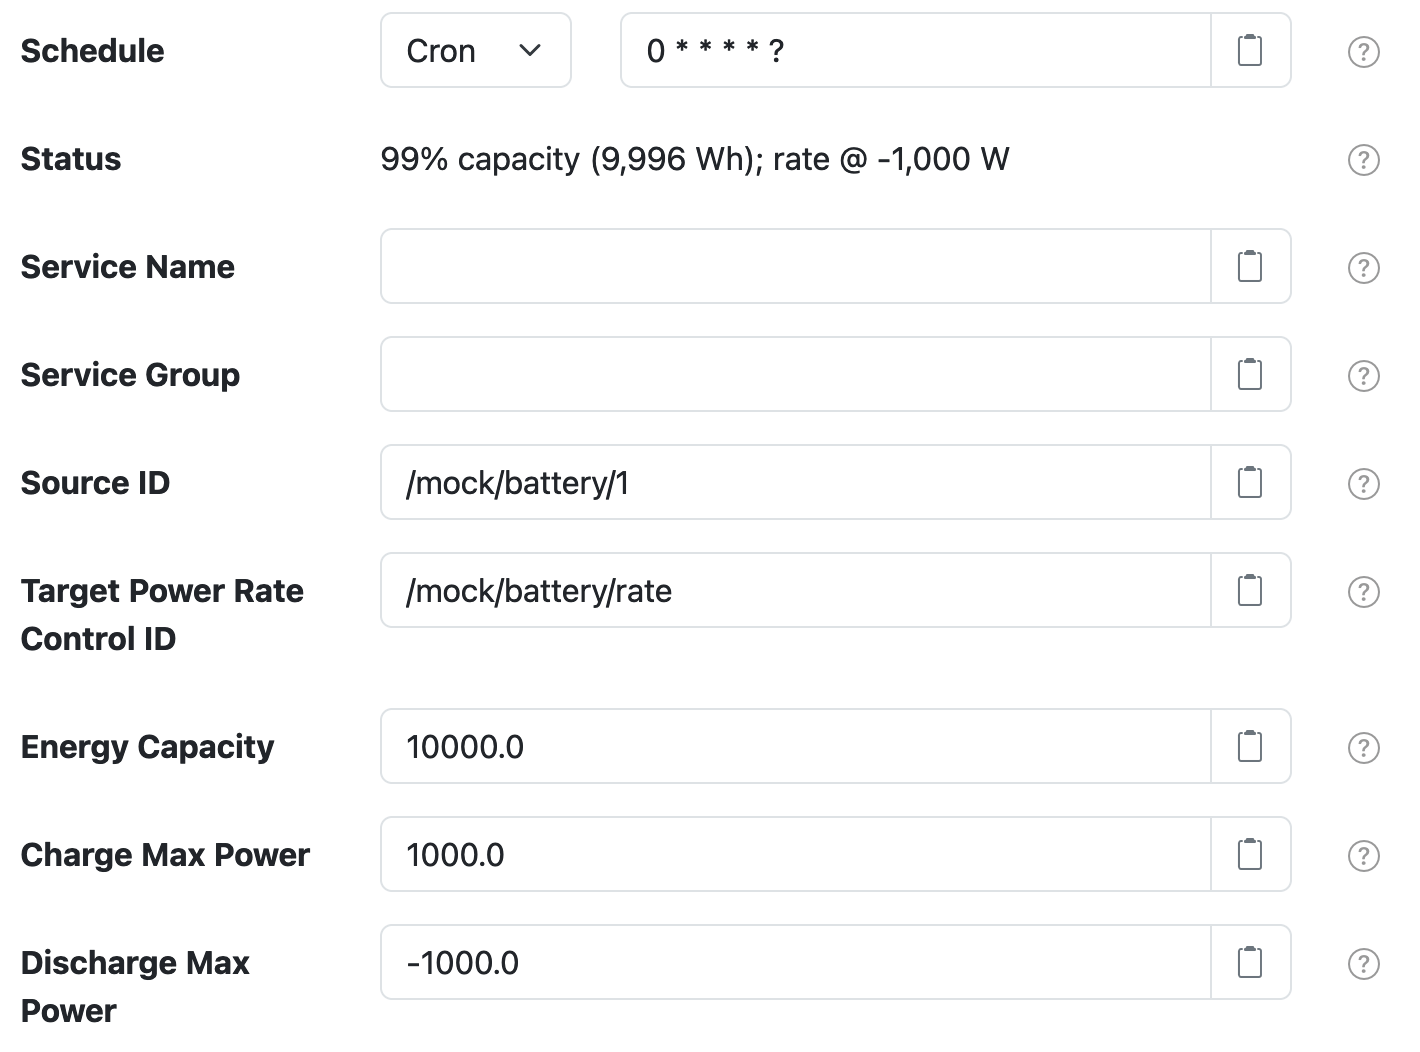
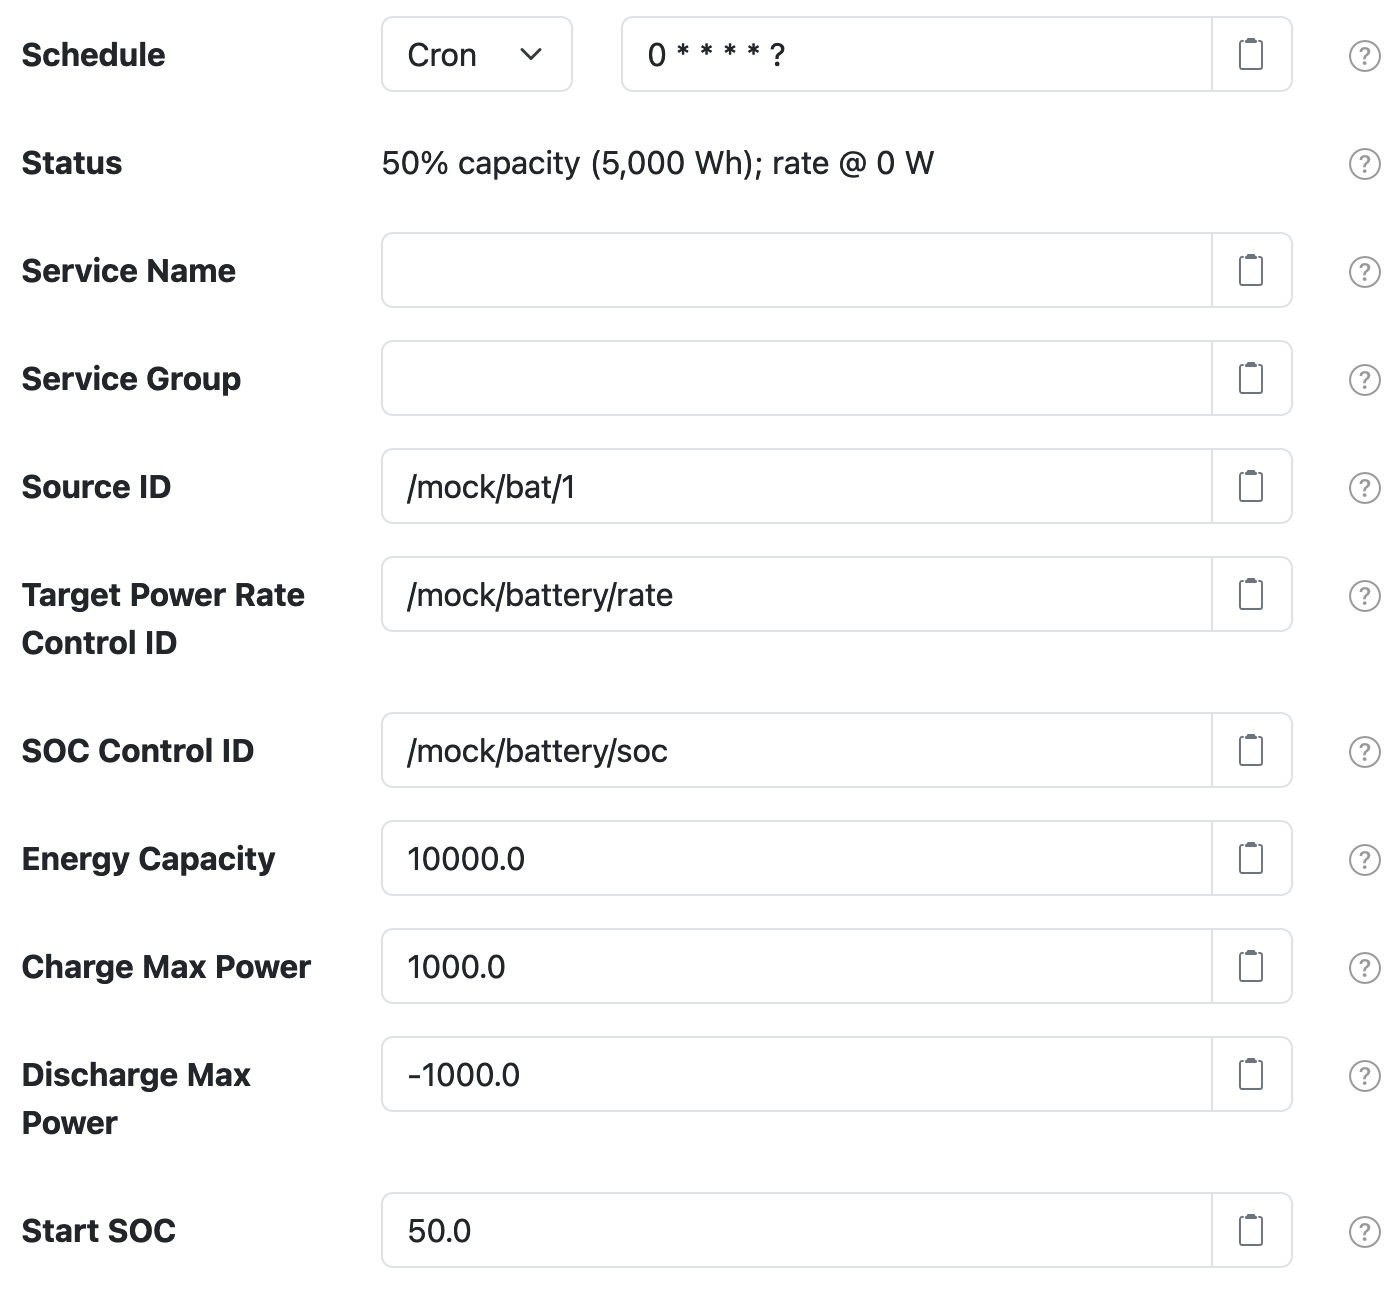
Add SOC control to support manipulating the SOC; add initial SOC to be able to start with arbitrary energy amount.

diff --git a/net.solarnetwork.node.datum.battery.mock/src/net/solarnetwork/node/datum/battery/mock/MockBatteryDatumDataSource.java b/net.solarnetwork.node.datum.battery.mock/src/net/solarnetwork/node/datum/battery/mock/MockBatteryDatumDataSource.java
@@ -74,16 +74,21 @@ public class MockBatteryDatumDataSource extends DatumDataSourceSupport
 	/** The {@code energyCapacity} property default value. */
 	public static final double DEFAULT_ENERGY_CAPACITY = 10_000.0;
 
+	/** The {@code initialSoc} property default value. */
+	public static final double DEFAULT_INITIAL_SOC = 100.0;
+
 	private final Clock clock;
 
 	private String sourceId;
 	private String targetPowerRateControlId;
+	private String socControlId;
 	private double energyCapacity = DEFAULT_ENERGY_CAPACITY;
 	private double maxPowerRateCharge = DEFAULT_MAX_POWER_RATE;
 	private double maxPowerRateDischarge = -DEFAULT_MAX_POWER_RATE;
+	private double initialSoc = DEFAULT_INITIAL_SOC;
 
 	private double targetPowerRate = 0.0;
-	private double availableEnergyCapacity = DEFAULT_ENERGY_CAPACITY;
+	private double availableEnergy = DEFAULT_ENERGY_CAPACITY;
 
 	private SimpleEnergyStorageDatum lastDatum;
 
@@ -127,29 +132,48 @@ public class MockBatteryDatumDataSource extends DatumDataSourceSupport
 	@Override
 	public List<String> getAvailableControlIds() {
 		final String targetPowerRateControlId = resolvePlaceholders(this.targetPowerRateControlId, null);
-		return (targetPowerRateControlId == null || targetPowerRateControlId.isEmpty()
-				? Collections.emptyList()
-				: Collections.singletonList(targetPowerRateControlId));
+		final String socControlId = resolvePlaceholders(this.socControlId, null);
+		if ( (targetPowerRateControlId == null || targetPowerRateControlId.isEmpty())
+				&& (socControlId == null || socControlId.isEmpty()) ) {
+			return Collections.emptyList();
+		}
+		List<String> result = new ArrayList<>(2);
+		if ( targetPowerRateControlId != null && !targetPowerRateControlId.isEmpty() ) {
+			result.add(targetPowerRateControlId);
+		}
+		if ( socControlId != null && !socControlId.isEmpty() ) {
+			result.add(socControlId);
+		}
+		return result;
 	}
 
 	@Override
 	public NodeControlInfo getCurrentControlInfo(String controlId) {
 		final String targetPowerRateControlId = resolvePlaceholders(this.targetPowerRateControlId, null);
-		if ( targetPowerRateControlId == null || !targetPowerRateControlId.equals(controlId) ) {
-			return null;
+		if ( targetPowerRateControlId != null && targetPowerRateControlId.equals(controlId) ) {
+			EnergyStorageDatum d = readCurrentDatum();
+			return newSimpleNodeControlInfoDatum(targetPowerRateControlId, NodeControlPropertyType.Float,
+					"W", d.asSampleOperations().getSampleString(DatumSamplesType.Instantaneous,
+							POWER_RATE_PROP));
 		}
-		EnergyStorageDatum d = readCurrentDatum();
-		return newSimpleNodeControlInfoDatum(targetPowerRateControlId,
-				d.asSampleOperations().getSampleString(DatumSamplesType.Instantaneous, POWER_RATE_PROP));
+		final String socControlId = resolvePlaceholders(this.socControlId, null);
+		if ( socControlId != null && socControlId.equals(controlId) ) {
+			EnergyStorageDatum d = readCurrentDatum();
+			return newSimpleNodeControlInfoDatum(socControlId, NodeControlPropertyType.Percent, null,
+					d.asSampleOperations().getSampleString(DatumSamplesType.Instantaneous,
+							EnergyStorageDatum.STATE_OF_CHARGE_PERCENTAGE_KEY));
+		}
+		return null;
 	}
 
-	private SimpleNodeControlInfoDatum newSimpleNodeControlInfoDatum(String controlId, String value) {
+	private SimpleNodeControlInfoDatum newSimpleNodeControlInfoDatum(String controlId,
+			NodeControlPropertyType type, String unit, String value) {
 		// @formatter:off
 		NodeControlInfo info = BasicNodeControlInfo.builder()
-				.withControlId(resolvePlaceholders(controlId))
-				.withType(NodeControlPropertyType.Float)
+				.withControlId(controlId)
+				.withType(type)
 				.withReadonly(false)
-				.withUnit("W")
+				.withUnit(unit)
 				.withValue(value)
 				.build();
 		// @formatter:on
@@ -167,13 +191,20 @@ public class MockBatteryDatumDataSource extends DatumDataSourceSupport
 			return null;
 		}
 		// look for a parameter name that matches a control ID
-		final String targetPowerRateControlId = this.targetPowerRateControlId;
+		final String targetPowerRateControlId = resolvePlaceholders(this.targetPowerRateControlId, null);
+		final String socControlId = resolvePlaceholders(this.socControlId, null);
 		InstructionState result = null;
 		for ( String paramName : instruction.getParameterNames() ) {
 			if ( targetPowerRateControlId.equals(paramName) ) {
-				Number newValue = StringUtils
-						.numberValue(instruction.getParameterValue(targetPowerRateControlId));
+				Number newValue = StringUtils.numberValue(instruction.getParameterValue(paramName));
 				if ( updateTargetPowerRate(newValue) ) {
+					result = InstructionState.Completed;
+				} else {
+					result = InstructionState.Declined;
+				}
+			} else if ( socControlId.equals(paramName) ) {
+				Number newValue = StringUtils.numberValue(instruction.getParameterValue(paramName));
+				if ( updateSoc(newValue) ) {
 					result = InstructionState.Completed;
 				} else {
 					result = InstructionState.Declined;
@@ -188,6 +219,16 @@ public class MockBatteryDatumDataSource extends DatumDataSourceSupport
 			return false;
 		}
 		setTargetPowerRate(newValue.doubleValue());
+		return true;
+	}
+
+	private synchronized boolean updateSoc(Number newValue) {
+		if ( newValue == null ) {
+			return false;
+		}
+		final double soc = Math.max(0, Math.min(1.0, newValue.doubleValue() / 100.0));
+		final double newAvailEnergy = soc * energyCapacity;
+		this.availableEnergy = newAvailEnergy;
 		return true;
 	}
 
@@ -207,18 +248,21 @@ public class MockBatteryDatumDataSource extends DatumDataSourceSupport
 
 		result.add(new BasicTextFieldSettingSpecifier("sourceId", null));
 		result.add(new BasicTextFieldSettingSpecifier("targetPowerRateControlId", null));
+		result.add(new BasicTextFieldSettingSpecifier("socControlId", null));
 		result.add(new BasicTextFieldSettingSpecifier("energyCapacity",
 				String.valueOf(DEFAULT_ENERGY_CAPACITY)));
 		result.add(new BasicTextFieldSettingSpecifier("maxPowerRateCharge",
 				String.valueOf(DEFAULT_MAX_POWER_RATE)));
 		result.add(new BasicTextFieldSettingSpecifier("maxPowerRateDischarge",
 				String.valueOf(-DEFAULT_MAX_POWER_RATE)));
+		result.add(
+				new BasicTextFieldSettingSpecifier("initialSoc", String.valueOf(DEFAULT_INITIAL_SOC)));
 
 		return result;
 	}
 
-	private String statusMessage(Locale locale) {
-		final double currentCapacity = this.availableEnergyCapacity;
+	private synchronized String statusMessage(Locale locale) {
+		final double currentCapacity = this.availableEnergy;
 		final double totalCapacity = this.energyCapacity;
 		final int rate = (int) this.targetPowerRate;
 		final int soc = (int) ((currentCapacity / totalCapacity) * 100.0);
@@ -229,7 +273,7 @@ public class MockBatteryDatumDataSource extends DatumDataSourceSupport
 	private synchronized SimpleEnergyStorageDatum sample() {
 		final Instant now = clock.instant();
 
-		double availCapacity = this.availableEnergyCapacity;
+		double availCapacity = this.availableEnergy;
 		final double totalCapacity = this.energyCapacity;
 		final double rate = (int) this.targetPowerRate;
 		final double soc = ((availCapacity / totalCapacity) * 100.0);
@@ -243,7 +287,7 @@ public class MockBatteryDatumDataSource extends DatumDataSourceSupport
 			double newCapacity = Math.max(0.0,
 					Math.min(totalCapacity, availCapacity + hoursDiff * rate));
 			if ( newCapacity != availCapacity ) {
-				this.availableEnergyCapacity = newCapacity;
+				this.availableEnergy = newCapacity;
 			}
 		}
 
@@ -295,6 +339,48 @@ public class MockBatteryDatumDataSource extends DatumDataSourceSupport
 	}
 
 	/**
+	 * Get the control ID to use for the state of charge.
+	 *
+	 * @return the control ID
+	 */
+	public final String getSocControlId() {
+		return socControlId;
+	}
+
+	/**
+	 * Set the control ID to use for the state of charge.
+	 *
+	 * @param socControlId
+	 *        the control ID to set
+	 */
+	public final void setSocControlId(String socControlId) {
+		this.socControlId = socControlId;
+	}
+
+	/**
+	 * Get the starting state of charge.
+	 *
+	 * @return the starting state of charge, as a percentage from 0 - 100;
+	 *         defaults to {@link #DEFAULT_INITIAL_SOC}
+	 */
+	public final double getInitialSoc() {
+		return initialSoc;
+	}
+
+	/**
+	 * Set the starting state of charge.
+	 *
+	 * @param initialSoc
+	 *        the starting state of charge to set, as a percentage from 0 - 100
+	 */
+	public final synchronized void setInitialSoc(double initialSoc) {
+		this.initialSoc = initialSoc;
+		if ( lastDatum == null ) {
+			updateSoc(initialSoc);
+		}
+	}
+
+	/**
 	 * Get the target power rate, in watts.
 	 *
 	 * @return the rate in watts; defaults to {@code 0}
@@ -337,8 +423,11 @@ public class MockBatteryDatumDataSource extends DatumDataSourceSupport
 	 */
 	public synchronized final void setEnergyCapacity(double energyCapacity) {
 		this.energyCapacity = (energyCapacity < 0.0 ? 0.0 : energyCapacity);
-		if ( this.energyCapacity < this.availableEnergyCapacity ) {
-			this.availableEnergyCapacity = this.energyCapacity;
+		if ( this.energyCapacity < this.availableEnergy ) {
+			this.availableEnergy = this.energyCapacity;
+		}
+		if ( lastDatum == null ) {
+			updateSoc(initialSoc);
 		}
 	}
 

diff --git a/net.solarnetwork.node.datum.battery.mock/README.md b/net.solarnetwork.node.datum.battery.mock/README.md
@@ -4,7 +4,7 @@ This project provides SolarNode plugin that pretends to collect data from a batt
 control for adjusting its charge/discharge power rate. It is designed for developers to use, when
 testing SolarNode components.
 
-<img alt="Mock Power Meter settings" src="docs/solarnode-mock-battery-settings@2x.png" with="710">
+<img alt="Mock Power Meter settings" src="docs/solarnode-mock-battery-settings@2x.png" with="700">
 
 # Use
 
@@ -23,9 +23,11 @@ Each configuration contains the following overall settings:
 | Service Group                | A group name to associate this data source with. |
 | Source ID                    | The SolarNetwork unique source ID to assign to datum collected from this component. |
 | Target Power Rate Control ID | A control ID to expose for managing the target power rate. The `SetControlParameter` instruction can be used to update the control value, passing the desired power rate, in **watts**. A positive value represents a _charge_ (receive) rate while a negative value represents a _discharge_ (supply) rate. |
+| SOC Control ID               | A control ID to expose for manipulating the state of charge. The `SetControlParameter` instruction can be used to update the control value, passing the desired SOC as an integer percentage from `0 - 100`. |
 | Energy Capacity              | The total capacity of the battery, in **watt-hours**. |
 | Charge Max Power             | The maximum power rate allowed for charging, in **watts**. |
 | Discharge Max Power          | The maximum power rate allowed for discharging, in watts. |
+| Start SOC                    | The state of charge to use when the battery is first measured, from `0 - 100`. |
 
 
 # Power rate control
